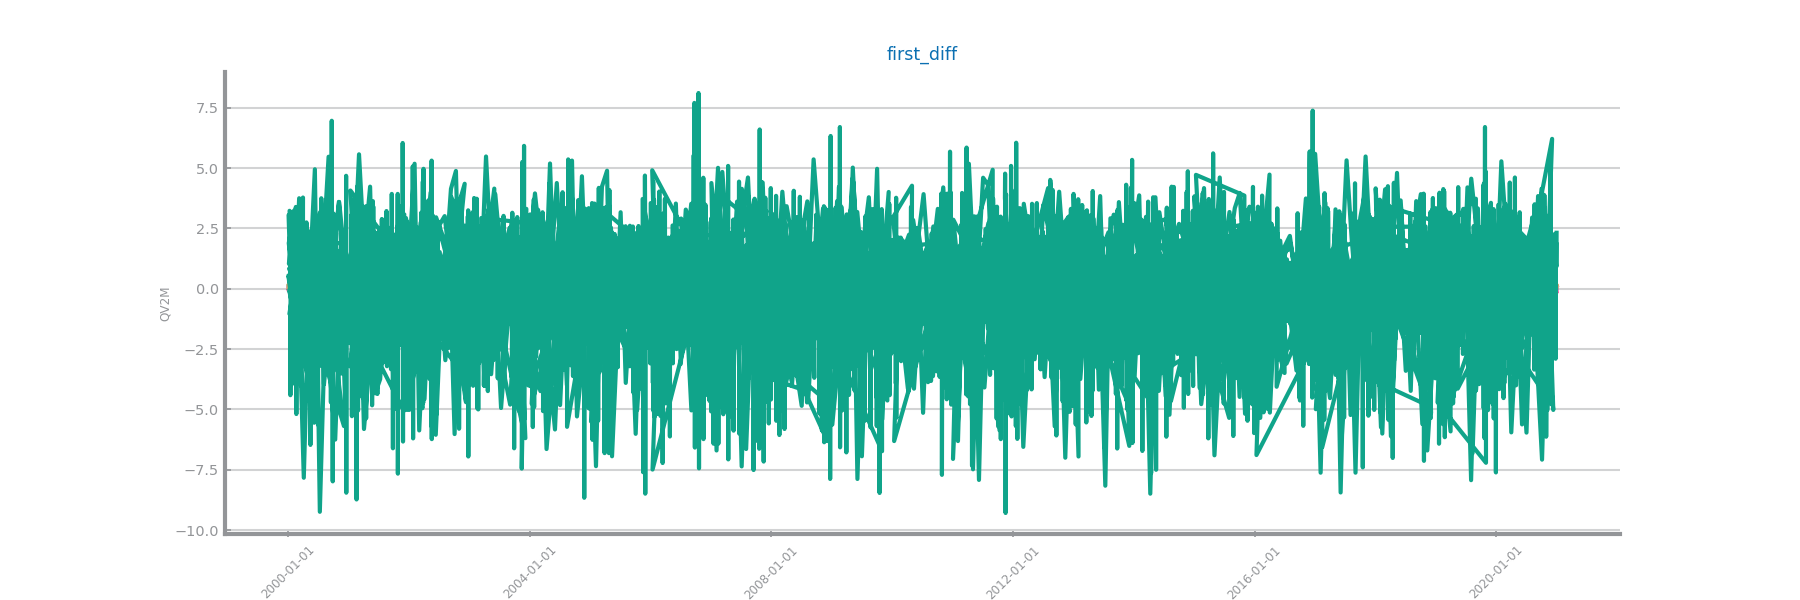
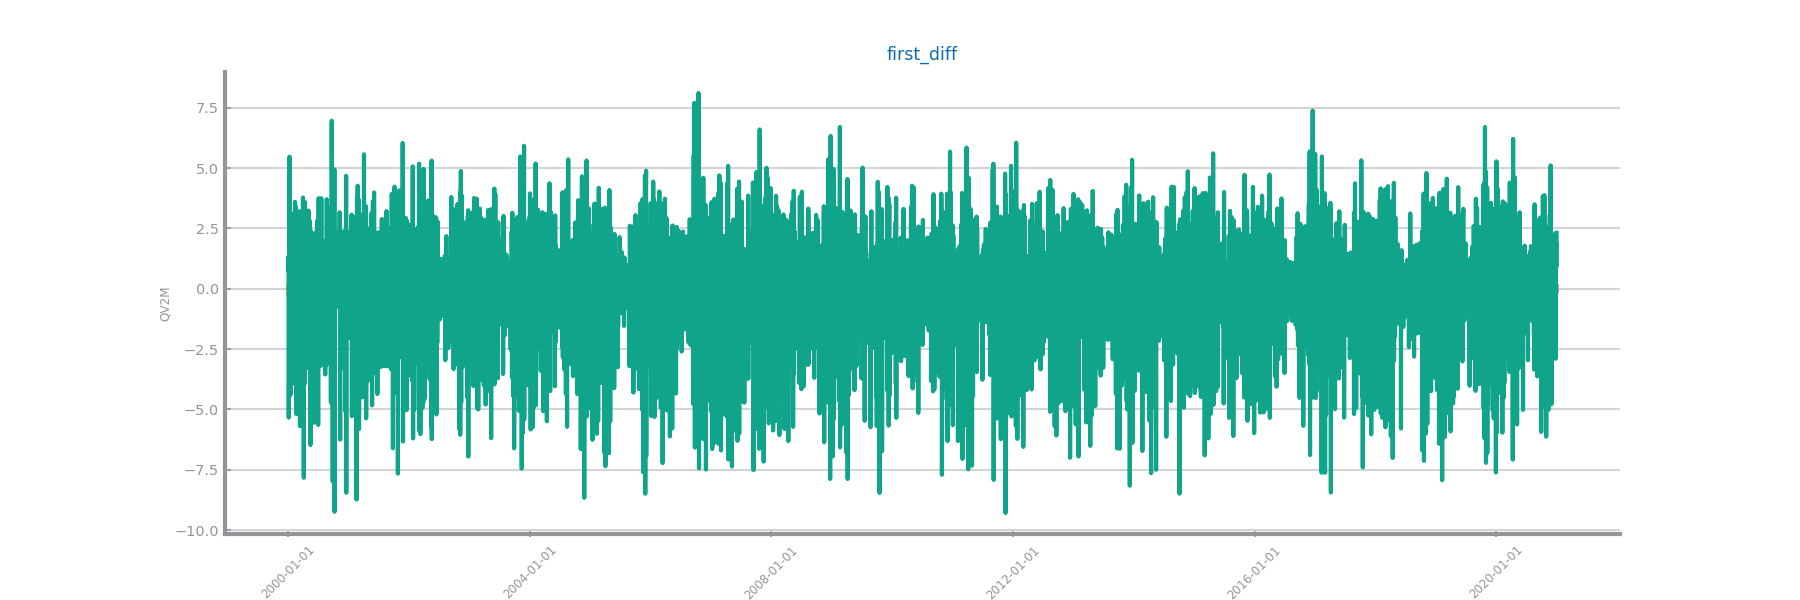
fix: differentiation

Changed region(s): [[0.1556, 0.54, 0.8711, 0.84], [0.1556, 0.24, 0.8711, 0.42], [0.84, 0.39, 0.8711, 0.42]]

diff --git a/health-forecasting/src/transformation/differentiation.py b/health-forecasting/src/transformation/differentiation.py
@@ -37,7 +37,7 @@ class Differentiation:
 
   def plot_figure(self, data: pd.DataFrame, title: str) -> None:
     figure(figsize=(3*HEIGHT, HEIGHT))
-    plot_series(data, title=title, x_label='Date', y_label='QV2M')
+    plot_series(data, title=title, x_label='Date', y_label='Glucose')
     xticks(rotation = 45)
     savefig(f'health-forecasting/records/transformation/differentiation_{title}_plot.png')
 
@@ -89,7 +89,7 @@ class Differentiation:
 
       plot_evaluation_results(train.values, prd_trn, test.values, prd_tst, f'health-forecasting/records/transformation/differentiation_{approach}_{measure}_simple_avg_eval')
       plt.savefig(f'health-forecasting/records/transformation/differentiation_{approach}_{measure}_simple_avg_eval.png')
-      self.plot_forecasting_series(train, test, prd_trn, prd_tst, f'health-forecasting/records/transformation/differentiation_{approach}_{measure}_simple_avg_plots', x_label="date", y_label="QV2M")
+      self.plot_forecasting_series(train, test, prd_trn, prd_tst, f'health-forecasting/records/transformation/differentiation_{approach}_{measure}_simple_avg_plots', x_label="date", y_label="Glucose")
       plt.savefig(f'health-forecasting/records/transformation/differentiation_{approach}_{measure}_simple_avg_plots.png')
 
   def rolling_mean(self, data: pd.DataFrame, approach: str) -> None:
@@ -108,7 +108,7 @@ class Differentiation:
     
     plot_evaluation_results(train.values, prd_trn, test.values, prd_tst, f'health-forecasting/records/transformation/{approach}_{measure}_rollingMean_eval.png')
     plt.savefig(f'health-forecasting/records/transformation/differentiation_{approach}_{measure}_rollingMean_eval.png')
-    self.plot_forecasting_series(train, test, prd_trn, prd_tst, f'health-forecasting/records/transformation/differentiation_{approach}_{measure}_rollingMean_plots.png', x_label="date", y_label="QV2M")
+    self.plot_forecasting_series(train, test, prd_trn, prd_tst, f'health-forecasting/records/transformation/differentiation_{approach}_{measure}_rollingMean_plots.png', x_label="date", y_label="Glucose")
     plt.savefig(f'health-forecasting/records/transformation/differentiation_{approach}_{measure}_rollingMean_plots.png')
 
 

diff --git a/health-forecasting/src/preparation/mvi_imputation.py b/health-forecasting/src/preparation/mvi_imputation.py
@@ -73,7 +73,7 @@ class MVImputation:
         temp_df = pd.DataFrame(imputer.fit_transform(self.data), columns=["Insulin", "Glucose"])
         temp_df.index = self.data.index
 
-        self.data = temp_df
+        return temp_df
         #self.data.to_csv(f'health-forecasting/resources/data/data_mvi_approach1.csv', index=True)
 
     def approach_2_compute(self) -> pd.DataFrame:
@@ -84,7 +84,7 @@ class MVImputation:
         - Evaluate with Rolling Mean
         """
 
-        self.drop_records()
+        return self.drop_records()
         #self.data.to_csv(f'health-forecasting/resources/data/data_mvi_approach2.csv', index=True)
 
     def drop_column(self, column_name: str):
@@ -95,6 +95,7 @@ class MVImputation:
 
     def drop_records(self):
         self.data.dropna(axis=0, how='any', inplace=True)
+        return self.data
 
     def split_dataframe(self, trn_pct=0.70):
         trn_size = int(len(self.data) * trn_pct)

diff --git a/climate-forecasting/src/main.py b/climate-forecasting/src/main.py
@@ -23,7 +23,7 @@ if __name__ == "__main__":
 
   # ----------------------------- 2º Phase -> Data preparation ----------------------------- #
   
-  data = read_csv(INPUT_FILE_PATH, index_col='date', sep=',', decimal='.', parse_dates=True, infer_datetime_format=True)
+  data = read_csv(INPUT_FILE_PATH, index_col='date', sep=',', decimal='.', parse_dates=True, infer_datetime_format=True, dayfirst=True)
 
   ## As shown by explore_count_data_types, there are no missing values for this dataset
   
@@ -31,5 +31,5 @@ if __name__ == "__main__":
   data = scaling.compute_scale()
 
   differentiation = Differentiation(data)
-  data = differentiation.explore_differentiation()
+  data = differentiation.compute_differentiation()
 

diff --git a/health-forecasting/src/main.py b/health-forecasting/src/main.py
@@ -23,12 +23,7 @@ if __name__ == "__main__":
     mvi.explore_mv_imputation()
     data = mvi.compute_mv_imputation("approach_2")
 
-    ## Does it even make sense to apply scaling?
-    # scaling = Scaling(data)
-    # data = scaling.explore_scaling()
+    # No scaling applied due to few columns in dataset
     
-    # TODO: @Carlos -> After solving MVI, remove the following line:
-    # data = data.dropna(inplace=False)
-
-    # differentiation = Differentiation(data)
-    # data = differentiation.explore_differentiation()
+    differentiation = Differentiation(data)
+    data = differentiation.compute_differentiation()
